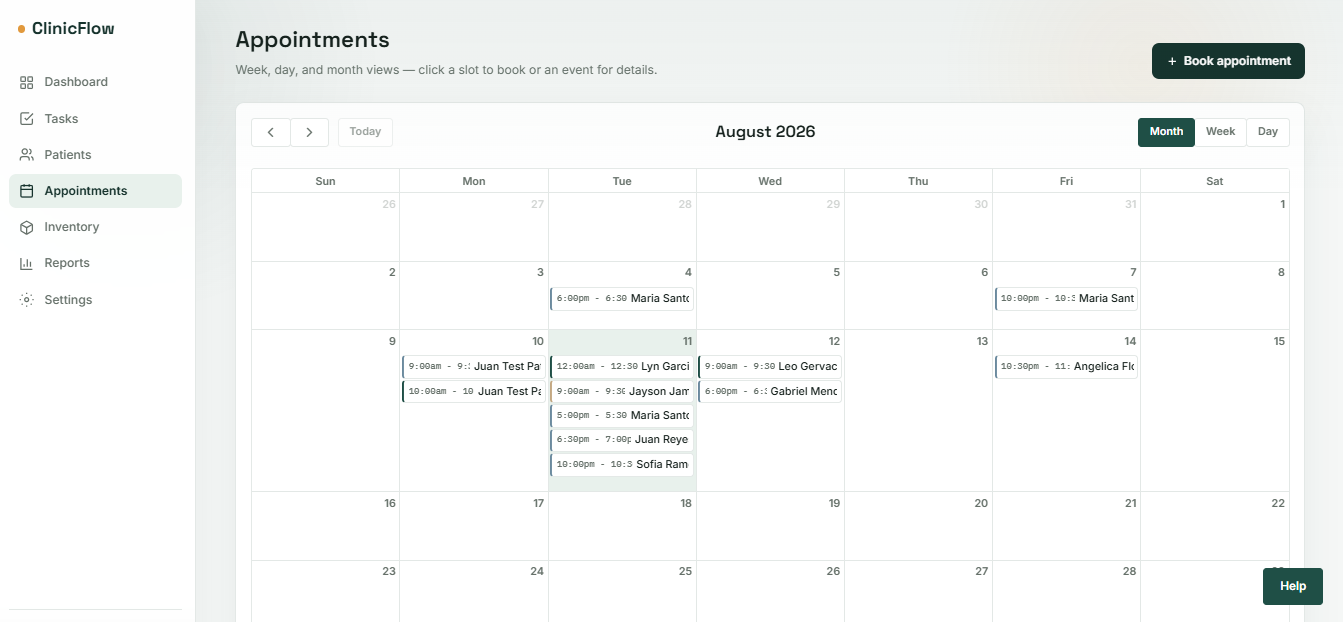
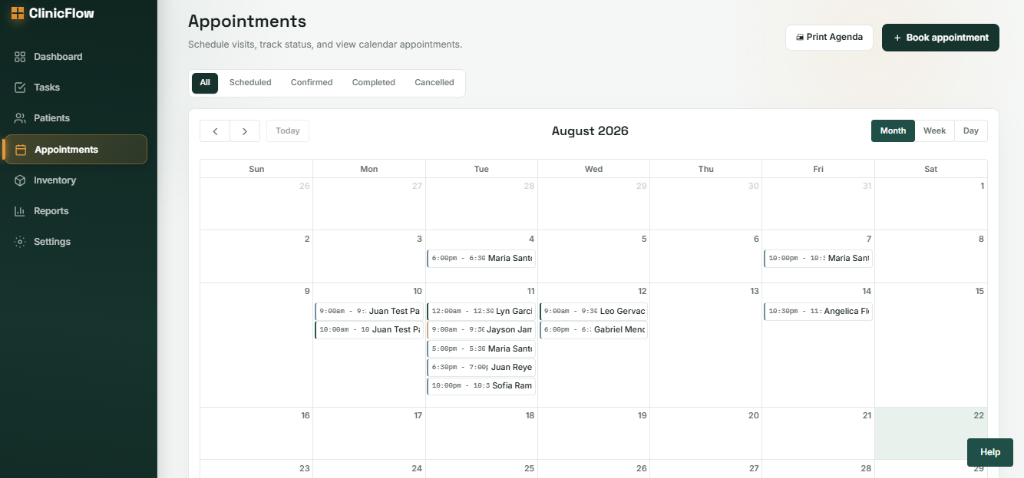
feat: default project cards to mockup, update ClinicFlow screenshots, and categorize projects into n8n, GoHighLevel, and Web Apps

diff --git a/src/routes/projects.index.tsx b/src/routes/projects.index.tsx
@@ -3,10 +3,11 @@ import { useState } from "react";
 import { ProjectCard } from "@/components/project-card";
 import { Reveal } from "@/components/reveal";
 import { categories, projects } from "@/data/projects";
+import { Zap, Layers, Globe, LayoutGrid } from "lucide-react";
 
-const title = "Projects — Automation, Internal Tools & API Integrations";
+const title = "Projects — n8n Automations, GoHighLevel CRMs & Full-Stack Web Systems";
 const description =
-  "Case studies in AI automation, business systems, web applications, internal tools, and API integration — each documented as problem, system, and result.";
+  "Case studies in n8n automations, GoHighLevel CRM workflows, and full-stack web applications & systems — each documented with real workflow diagrams and evidence.";
 
 export const Route = createFileRoute("/projects/")({
   head: () => ({
@@ -24,41 +25,64 @@ export const Route = createFileRoute("/projects/")({
   component: ProjectsPage,
 });
 
+function getCategoryIcon(cat: string) {
+  switch (cat) {
+    case "n8n Automations":
+      return <Zap className="h-4 w-4 text-emerald-400" />;
+    case "GoHighLevel CRMs":
+      return <Layers className="h-4 w-4 text-amber-400" />;
+    case "Web Applications & Systems":
+      return <Globe className="h-4 w-4 text-blue-400" />;
+    default:
+      return <LayoutGrid className="h-4 w-4" />;
+  }
+}
+
 function ProjectsPage() {
   const [filter, setFilter] = useState<string>("All");
   const shown = filter === "All" ? projects : projects.filter((p) => p.category === filter);
   const options = ["All", ...categories];
+
+  const getCount = (c: string) =>
+    c === "All" ? projects.length : projects.filter((p) => p.category === c).length;
 
   return (
     <div className="mx-auto max-w-6xl px-4 py-14 sm:px-6 sm:py-20">
       <Reveal as="header" className="max-w-2xl">
         <p className="label-mono">Projects</p>
         <h1 className="mt-3 text-3xl font-semibold tracking-tight sm:text-4xl">
-          Systems I've built, documented end to end
+          Systems I've Built, Documented End to End
         </h1>
         <p className="mt-4 leading-relaxed text-muted-foreground">
-          Each case study covers the original workflow, the architecture, the automation and AI
-          components, and what changed afterwards. Entries below are structural placeholders until
-          the real project details are added.
+          Browse case studies separated by technical domain: <strong>n8n Automations</strong>, <strong>GoHighLevel CRMs</strong>, and <strong>Web Applications & Systems</strong>. Each case study covers the operational problem, architecture, logic flow, and measurable results.
         </p>
       </Reveal>
 
-      <div className="mt-8 flex flex-wrap gap-2" role="group" aria-label="Filter projects by category">
-        {options.map((c) => (
-          <button
-            key={c}
-            type="button"
-            onClick={() => setFilter(c)}
-            aria-pressed={filter === c}
-            className={`rounded-md border px-3 py-1.5 text-sm transition-colors ${
-              filter === c
-                ? "border-transparent bg-primary text-primary-foreground"
-                : "border-border bg-surface text-muted-foreground hover:border-border-strong hover:text-foreground"
-            }`}
-          >
-            {c}
-          </button>
-        ))}
+      <div className="mt-8 flex flex-wrap gap-2.5" role="group" aria-label="Filter projects by category">
+        {options.map((c) => {
+          const count = getCount(c);
+          return (
+            <button
+              key={c}
+              type="button"
+              onClick={() => setFilter(c)}
+              aria-pressed={filter === c}
+              className={`flex items-center gap-2 rounded-lg border px-3.5 py-2 text-xs font-mono font-medium transition-all ${
+                filter === c
+                  ? "border-primary/50 bg-primary/10 text-primary shadow-xs font-semibold"
+                  : "border-border/80 bg-surface/80 text-muted-foreground hover:border-border-strong hover:text-foreground"
+              }`}
+            >
+              {getCategoryIcon(c)}
+              <span>{c}</span>
+              <span className={`ml-1 rounded-md px-1.5 py-0.5 text-[10px] font-bold ${
+                filter === c ? "bg-primary text-primary-foreground" : "bg-muted text-muted-foreground"
+              }`}>
+                {count}
+              </span>
+            </button>
+          );
+        })}
       </div>
 
       <div className="mt-8 grid gap-6 lg:grid-cols-2 min-w-0 w-full">

diff --git a/src/data/projects.ts b/src/data/projects.ts
@@ -1,13 +1,9 @@
 // Neil Francis Layosa's Projects & Case Studies
 
 export const categories = [
-  "Workflow Automation",
-  "Web Applications",
-  "AI Automation",
-  "Internal Tools",
-  "Business Systems",
-  "API Integration",
-  "Technical Systems",
+  "n8n Automations",
+  "GoHighLevel CRMs",
+  "Web Applications & Systems",
 ] as const;
 
 export type Category = (typeof categories)[number];
@@ -61,7 +57,7 @@ export const projects: Project[] = [
   {
     slug: "servicem8-job-management-clickup",
     name: "ServiceM8-style Job Management → ClickUp",
-    category: "Workflow Automation",
+    category: "n8n Automations",
     summary:
       "A job-management automation that receives ServiceM8-style job events via webhooks, validates and transforms data, synchronizes jobs with ClickUp, prevents duplicate records, manages job lifecycle changes, and creates operational follow-up tasks automatically.",
     problem:
@@ -241,7 +237,7 @@ export const projects: Project[] = [
   {
     slug: "automated-document-reception-system",
     name: "Automated Document Reception & Email Notification System",
-    category: "Technical Systems",
+    category: "Web Applications & Systems",
     summary:
       "Best Thesis Award-winning full-stack document reception and physical tracking system integrated with ESP32 hardware sensors, live camera capture, and multi-node routing audit trails.",
     problem: "Manual document intake at office receptions caused misplaced physical mail, unverified document submissions, lack of document tracking across departments, and delayed notifications to recipients.",
@@ -371,7 +367,7 @@ export const projects: Project[] = [
   {
     slug: "clinicflow",
     name: "ClinicFlow — Healthcare Operations Platform",
-    category: "Business Systems",
+    category: "Web Applications & Systems",
     summary:
       "Recently completed healthcare operations platform covering patients, appointments, staff tasks, inventory, and reporting. Includes automated inventory alerts, appointment notifications, daily reports for administrators and doctors, and an AI assistant for system-related queries. (Recently completed, not yet deployed).",
     problem:
@@ -457,20 +453,8 @@ export const projects: Project[] = [
         image: "/images/projects/clinicflow/patients.png",
       },
       {
-        caption: "Patient Detail & Medical Profile Record",
-        image: "/images/projects/clinicflow/patient-detail.png",
-      },
-      {
-        caption: "Register New Patient Form Interface",
-        image: "/images/projects/clinicflow/register-patient.png",
-      },
-      {
         caption: "Tasks Management & Follow-ups Tracker",
         image: "/images/projects/clinicflow/tasks.png",
-      },
-      {
-        caption: "Create Task Form & Staff Assignment Interface",
-        image: "/images/projects/clinicflow/create-task.png",
       },
       {
         caption: "Appointments Calendar & Patient Booking Interface",
@@ -530,7 +514,7 @@ export const projects: Project[] = [
   {
     slug: "real-estate-lead-engine",
     name: "Real Estate Buyer/Seller Lead Qualification & Nurture Engine",
-    category: "Business Systems",
+    category: "GoHighLevel CRMs",
     summary:
       "Full-funnel GoHighLevel CRM automation managing buyer and seller lead lifecycles through six interconnected workflows, a custom intake form, lead scoring, conditional routing, pipeline state checks, and post-close referral loops.",
     problem:
@@ -731,7 +715,7 @@ export const projects: Project[] = [
   {
     slug: "leadflow",
     name: "LeadFlow — AI-Powered Lead Intake & Automated Response System",
-    category: "AI Automation",
+    category: "n8n Automations",
     summary:
       "An n8n workflow that captures form submissions, uses Google Gemini to qualify inquiries, validates AI output, and automatically routes qualified, non-qualified, and failed submissions to the appropriate systems.",
     problem:
@@ -885,7 +869,7 @@ export const projects: Project[] = [
   {
     slug: "ihomis-patient-data-migration",
     name: "IHOMIS Patient Data Migration Automation",
-    category: "AI Automation",
+    category: "Web Applications & Systems",
     summary:
       "Automated the transfer of 4,000+ patient records accumulated from 2019–2026 from Excel into IHOMIS using UI.Vision RPA. Increased processing capacity from 100–150 records per day manually to approximately 400 records per day, helping clear a multi-year data-entry backlog.",
     problem:

diff --git a/src/routes/index.tsx b/src/routes/index.tsx
@@ -1,8 +1,9 @@
+import { useState } from "react";
 import { createFileRoute, Link } from "@tanstack/react-router";
 import { ArchitectureDiagram } from "@/components/architecture-diagram";
 import { ProjectCard } from "@/components/project-card";
 import { Reveal } from "@/components/reveal";
-import { projects } from "@/data/projects";
+import { categories, projects } from "@/data/projects";
 import { capabilities, process, profile, stack } from "@/data/site";
 import {
   Sparkles,
@@ -166,14 +167,14 @@ function Home() {
         </div>
       </section>
 
-      {/* FEATURED PROJECTS (ALL 4 PROJECTS) */}
+      {/* FEATURED PROJECTS */}
       <section id="projects" className="border-b border-border py-16 sm:py-24 bg-background">
         <div className="mx-auto max-w-6xl px-4 sm:px-6">
-          <div className="flex flex-wrap items-end justify-between gap-4 mb-10">
+          <div className="flex flex-wrap items-end justify-between gap-4 mb-8">
             <SectionHeader
               label="Featured Case Studies"
               title="Problem → System Architecture → Measurable Outcome"
-              intro="Proven technical implementations combining web development, RPA, IoT microcontrollers, n8n automations, and AI integrations."
+              intro="Proven technical implementations separated into n8n Automations, GoHighLevel CRMs, and Web Applications & Systems."
             />
             <Reveal>
               <Link
@@ -185,13 +186,7 @@ function Home() {
             </Reveal>
           </div>
 
-          <div className="grid gap-8 lg:grid-cols-2 min-w-0 w-full">
-            {projects.map((p, i) => (
-              <Reveal key={p.slug} delay={i * 80} as="div" className="min-w-0 w-full">
-                <ProjectCard project={p} />
-              </Reveal>
-            ))}
-          </div>
+          <FeaturedProjectsSection />
         </div>
       </section>
 
@@ -349,6 +344,63 @@ function Home() {
           </Reveal>
         </div>
       </section>
+    </>
+  );
+}
+
+function FeaturedProjectsSection() {
+  const [activeCategory, setActiveCategory] = useState<string>("All");
+  const categoriesList = ["All", ...categories];
+  const displayedProjects =
+    activeCategory === "All"
+      ? projects
+      : projects.filter((p) => p.category === activeCategory);
+
+  return (
+    <>
+      <div className="mb-8 flex flex-wrap gap-2.5">
+        {categoriesList.map((c) => {
+          const count = c === "All" ? projects.length : projects.filter((p) => p.category === c).length;
+          return (
+            <button
+              key={c}
+              type="button"
+              onClick={() => setActiveCategory(c)}
+              className={`flex items-center gap-2 rounded-lg border px-3.5 py-2 text-xs font-mono font-medium transition-all ${
+                activeCategory === c
+                  ? "border-primary/50 bg-primary/10 text-primary shadow-xs font-semibold"
+                  : "border-border/80 bg-surface/80 text-muted-foreground hover:border-border-strong hover:text-foreground"
+              }`}
+            >
+              {c === "n8n Automations" ? (
+                <Zap className="h-3.5 w-3.5 text-emerald-400" />
+              ) : c === "GoHighLevel CRMs" ? (
+                <Layers className="h-3.5 w-3.5 text-amber-400" />
+              ) : c === "Web Applications & Systems" ? (
+                <Globe className="h-3.5 w-3.5 text-blue-400" />
+              ) : (
+                <Sparkles className="h-3.5 w-3.5 text-primary" />
+              )}
+              <span>{c}</span>
+              <span
+                className={`ml-1 rounded-md px-1.5 py-0.5 text-[10px] font-bold ${
+                  activeCategory === c ? "bg-primary text-primary-foreground" : "bg-muted text-muted-foreground"
+                }`}
+              >
+                {count}
+              </span>
+            </button>
+          );
+        })}
+      </div>
+
+      <div className="grid gap-8 lg:grid-cols-2 min-w-0 w-full">
+        {displayedProjects.map((p, i) => (
+          <Reveal key={p.slug} delay={i * 80} as="div" className="min-w-0 w-full">
+            <ProjectCard project={p} />
+          </Reveal>
+        ))}
+      </div>
     </>
   );
 }

diff --git a/src/components/project-card.tsx b/src/components/project-card.tsx
@@ -38,7 +38,9 @@ function renderLiveLogic(slug: string) {
  * architecture diagram, screenshot mockup, problem/system narrative, tech tags, and case-study link.
  */
 export function ProjectCard({ project }: { project: Project }) {
-  const [activeTab, setActiveTab] = useState<"logic" | "diagram" | "screenshot">("logic");
+  const [activeTab, setActiveTab] = useState<"logic" | "diagram" | "screenshot">(
+    project.thumbnail ? "screenshot" : "logic"
+  );
 
   return (
     <article className="group flex h-full min-w-0 w-full max-w-full flex-col overflow-hidden rounded-2xl border border-border/80 bg-surface/90 backdrop-blur-xs transition-all duration-300 hover:-translate-y-1 hover:border-primary/50 hover:shadow-lift hover:shadow-primary/5">
@@ -49,7 +51,13 @@ export function ProjectCard({ project }: { project: Project }) {
         {/* View Toggle Bar */}
         <div className="relative z-10 flex flex-wrap items-center justify-between gap-2 pb-3">
           <span className="label-mono flex items-center gap-1.5 text-xs font-semibold text-emerald-400">
-            <Zap className="h-3.5 w-3.5 text-emerald-400 animate-pulse" />
+            {activeTab === "logic" ? (
+              <Zap className="h-3.5 w-3.5 text-emerald-400 animate-pulse" />
+            ) : activeTab === "diagram" ? (
+              <Network className="h-3.5 w-3.5 text-emerald-400" />
+            ) : (
+              <ImageIcon className="h-3.5 w-3.5 text-emerald-400" />
+            )}
             {activeTab === "logic"
               ? "Live System Logic"
               : activeTab === "diagram"
@@ -58,6 +66,21 @@ export function ProjectCard({ project }: { project: Project }) {
           </span>
 
           <div className="flex items-center rounded-lg border border-border/80 bg-secondary/80 p-0.5 text-[11px] font-mono">
+            {project.thumbnail && (
+              <button
+                type="button"
+                onClick={() => setActiveTab("screenshot")}
+                className={`flex items-center gap-1 rounded-md px-2.5 py-1 transition-all ${
+                  activeTab === "screenshot"
+                    ? "bg-primary text-primary-foreground shadow-xs font-semibold"
+                    : "text-muted-foreground hover:text-foreground"
+                }`}
+              >
+                <ImageIcon className="h-3 w-3" />
+                <span>Mockup</span>
+              </button>
+            )}
+
             <button
               type="button"
               onClick={() => setActiveTab("logic")}
@@ -83,21 +106,6 @@ export function ProjectCard({ project }: { project: Project }) {
               <Network className="h-3 w-3" />
               <span>Flow</span>
             </button>
-
-            {project.thumbnail && (
-              <button
-                type="button"
-                onClick={() => setActiveTab("screenshot")}
-                className={`flex items-center gap-1 rounded-md px-2.5 py-1 transition-all ${
-                  activeTab === "screenshot"
-                    ? "bg-primary text-primary-foreground shadow-xs font-semibold"
-                    : "text-muted-foreground hover:text-foreground"
-                }`}
-              >
-                <ImageIcon className="h-3 w-3" />
-                <span>Mockup</span>
-              </button>
-            )}
           </div>
         </div>
 
